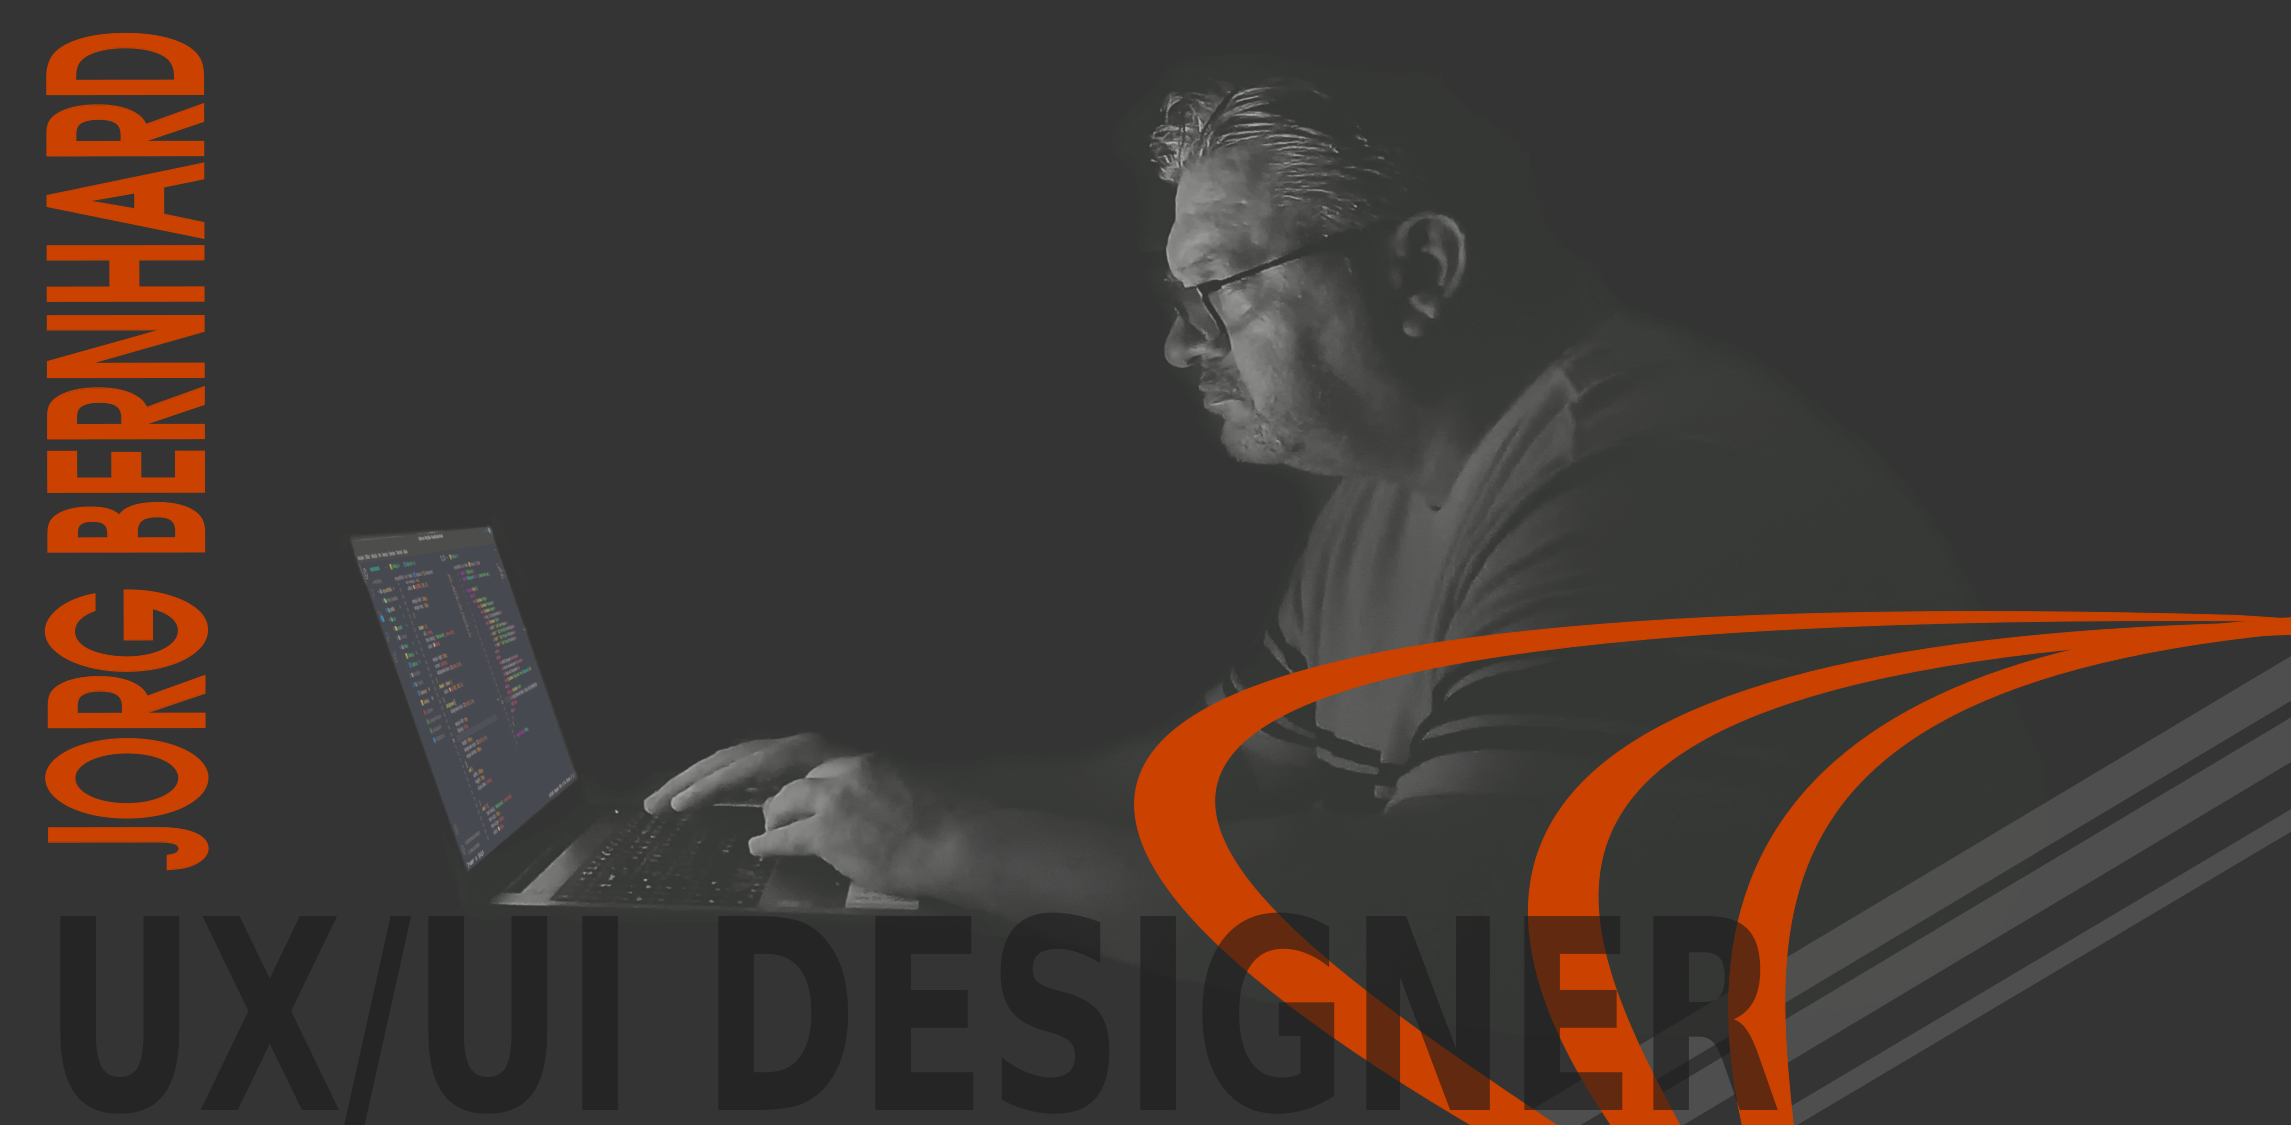
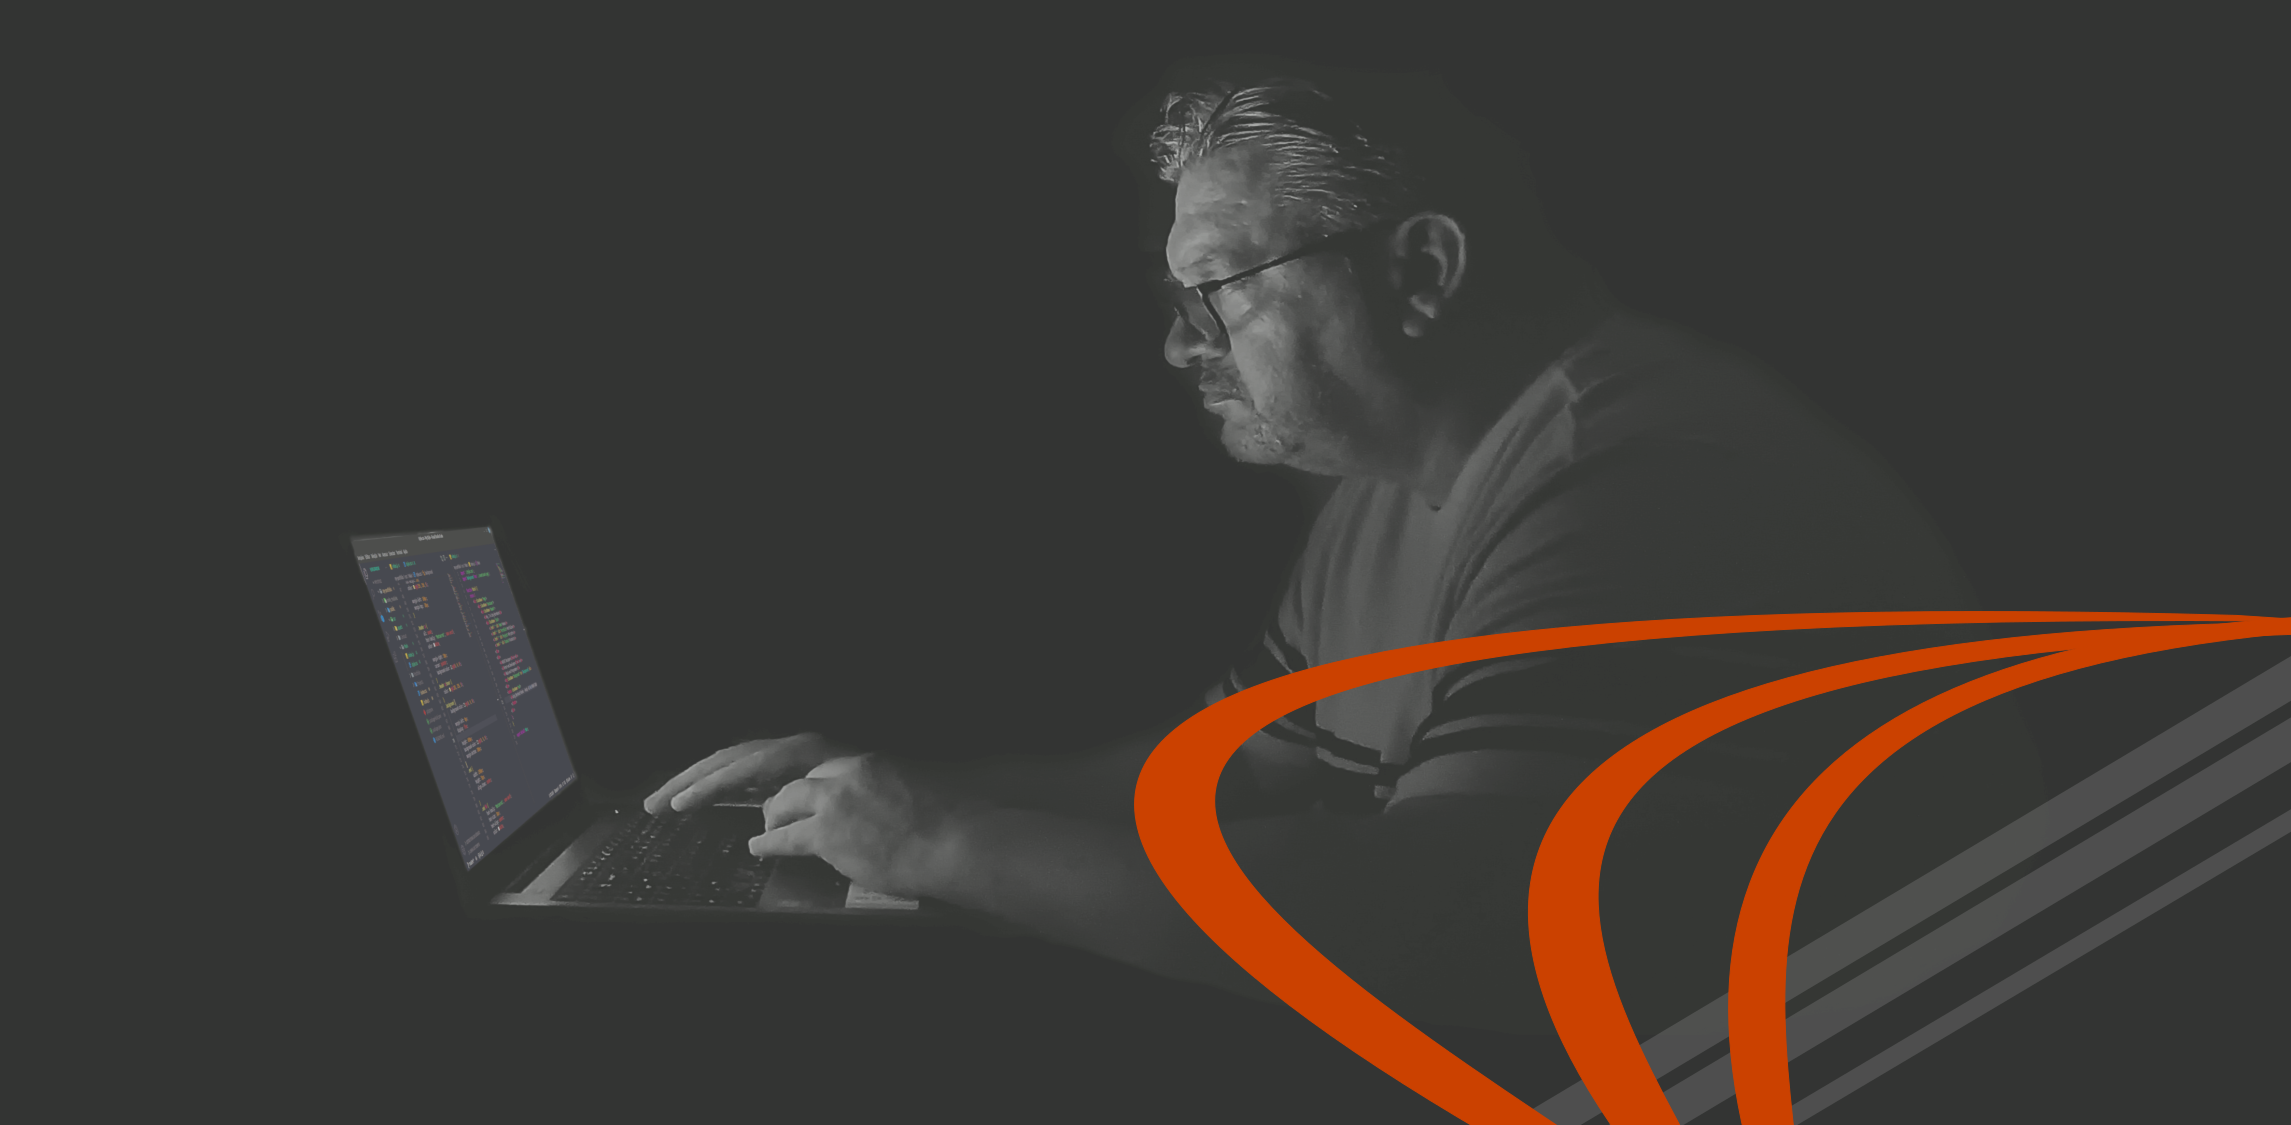
background change

Changed region(s): [[0.0, 0.0311, 0.093, 0.4978], [0.5268, 0.8089, 0.7748, 0.9956], [0.0, 0.5289, 0.093, 0.7778]]

diff --git a/src/Main/style.css b/src/Main/style.css
@@ -12,7 +12,7 @@
     height: 100vh;
      display: flex;
     flex-direction: row;
-    background-image: url('../assets/jorg-background-graylight.png');
+    background-image: url('../assets/background.png');
     background-size: cover;
     
 }
@@ -55,7 +55,7 @@
     font-size: 17rem;
     font-family: 500;
     
-    color: rgba(153, 153, 153, 0.08);
+    color: rgba(98, 98, 98, 0.7);
     
     margin-top: -19rem;
 }
